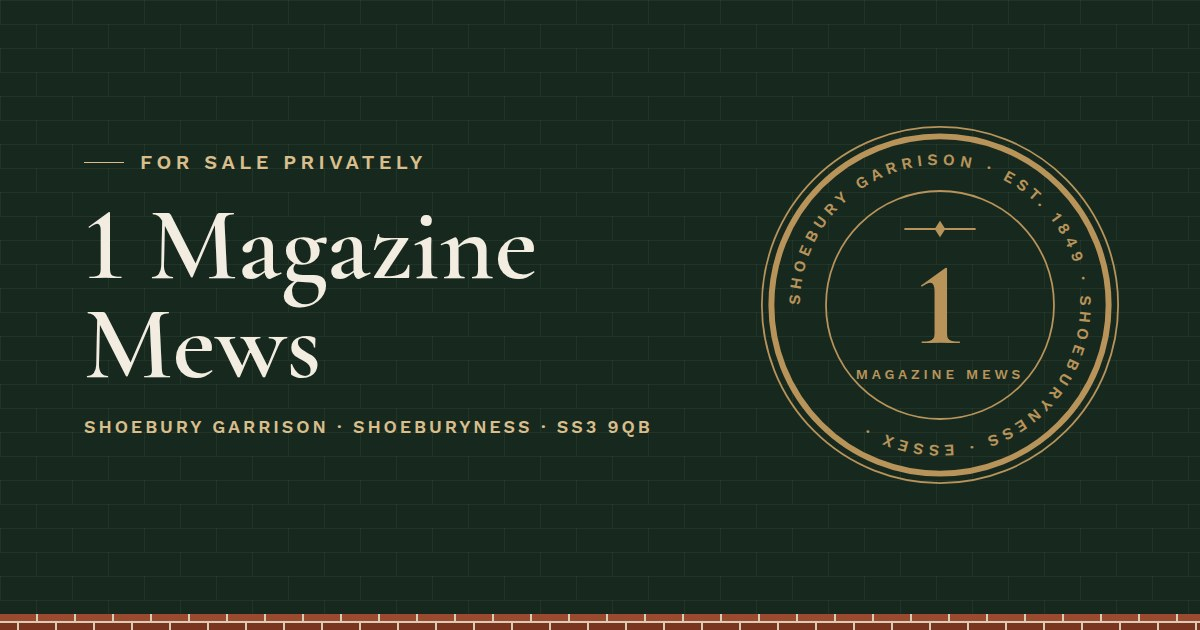
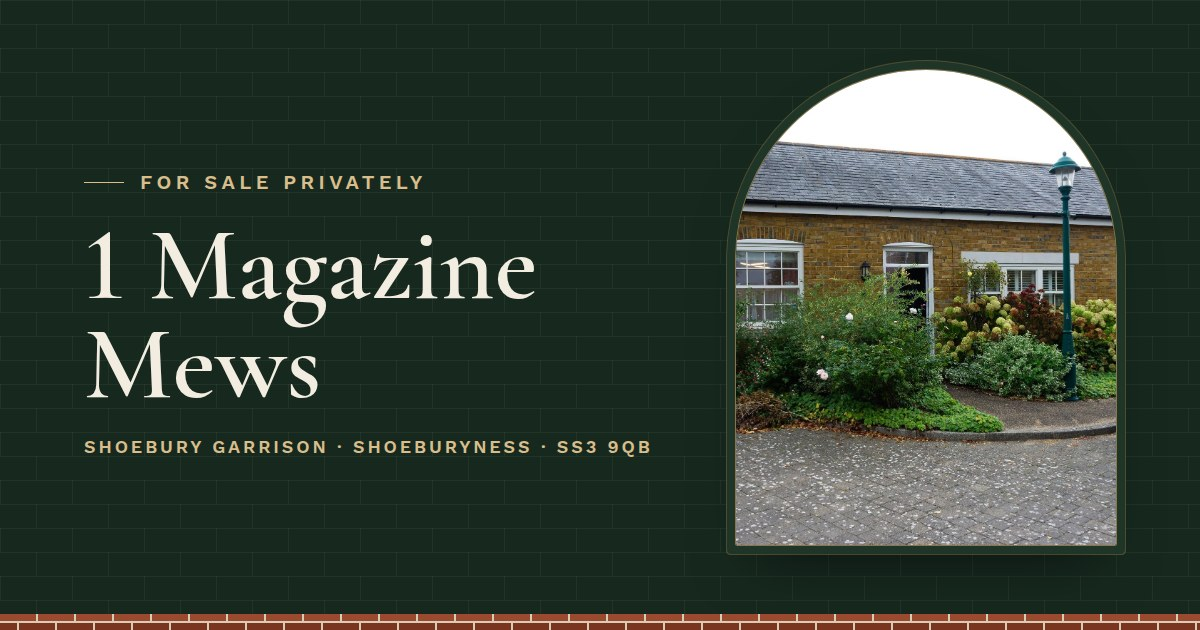
Add Rory's photos to 1 Magazine Mews
22 photos from the web-sized set in Drive, picked for the grid and
gallery. The front of the house is the hero, cropped to leave out a
neighbour's car. Number plates in the mews shot are blurred. The share
image now shows the house instead of only the crest.

The template gets an optional heroFocus setting, so the arched frame
can keep the right part of a landscape photo in view.

Claude-Session: https://claude.ai/code/session_01HPVg48CG5mJcPbNp1bycM4

diff --git a/magazine-mews/content.js b/magazine-mews/content.js
@@ -71,7 +71,10 @@ window.HOUSE = {
 
   // The big photo at the top. Leave "" and the top of the page
   // shows the Garrison crest instead. Landscape or portrait both work.
-  heroPhoto: "",           // e.g. "photos/front.jpg"
+  heroPhoto: "photos/hero-front.jpg",
+  // The frame is taller than a landscape photo, so the sides get cropped.
+  // "92% 50%" keeps the front door and the lamp post in view.
+  heroFocus: "92% 50%",
 
   // The round crest shown until there's a hero photo. The number and
   // street name come from the address.
@@ -139,8 +142,29 @@ window.HOUSE = {
      longest side and under 1MB each keeps the site fast.   */
 
   photos: [
-    // { src: "photos/01-front.jpg",   alt: "Front of the house", caption: "" },
-    // { src: "photos/02-living.jpg",  alt: "Living room",        caption: "Living room" },
+    // The first five make the grid; the rest open in the gallery.
+    { src: "photos/01-garden.jpg",               alt: "The back of the house, with the folding doors open onto the decking", caption: "Garden" },
+    { src: "photos/02-living-room.jpg",          alt: "Open-plan living room and kitchen, with folding doors onto the garden", caption: "Living room" },
+    { src: "photos/03-kitchen.jpg",              alt: "Pink fitted kitchen with grey worktops and a built-in oven", caption: "Kitchen" },
+    { src: "photos/04-bedroom.jpg",              alt: "Bedroom with a bird and flower mural wall", caption: "Bedroom" },
+    { src: "photos/05-garden-studio.jpg",        alt: "Timber garden studio on decking, next to the house", caption: "Garden studio" },
+    { src: "photos/06-front.jpg",                alt: "Front of the house on the mews, with the planted front garden and lamp post", caption: "Front of the house" },
+    { src: "photos/07-front-door.jpg",           alt: "Front door and front garden", caption: "Front of the house" },
+    { src: "photos/08-the-mews.jpg",             alt: "The mews courtyard and neighbouring Garrison houses", caption: "The mews" },
+    { src: "photos/09-living-room-windows.jpg",  alt: "Living room, looking towards the sash windows", caption: "Living room" },
+    { src: "photos/10-guest-bedroom.jpg",        alt: "Guest bedroom with mirrored wardrobes and a door to the guest toilet", caption: "Guest bedroom" },
+    { src: "photos/11-guest-toilet.jpg",         alt: "Guest toilet with an illuminated mirror and a gold basin", caption: "Guest toilet" },
+    { src: "photos/12-guest-toilet-detail.jpg",  alt: "Marble-effect shelf and patterned tiles in the guest toilet", caption: "Guest toilet" },
+    { src: "photos/13-garden-lawn.jpg",          alt: "Garden lawn with planted borders and brick walls", caption: "Garden" },
+    { src: "photos/14-garden-studio-doors.jpg",  alt: "Garden studio with its doors open onto the decking", caption: "Garden studio" },
+    { src: "photos/15-garden-studio-inside.jpg", alt: "Inside the garden studio, with a door out to the garden", caption: "Garden studio" },
+    { src: "photos/16-garage-studio.jpg",        alt: "Garage studio with French doors and a climbing creeper", caption: "Garage studio" },
+    { src: "photos/17-garage-studio-shower.jpg", alt: "Shower room in the garage studio, with palm-print walls", caption: "Garage studio shower room" },
+    { src: "photos/18-en-suite.jpg",             alt: "En suite with a walk-in shower and gold fittings", caption: "En suite" },
+    { src: "photos/19-en-suite-shower.jpg",      alt: "Walk-in shower with a gold rainfall shower head", caption: "En suite" },
+    { src: "photos/20-bedroom-mural.jpg",        alt: "The bird and flower mural in the bedroom", caption: "Bedroom" },
+    { src: "photos/21-back-garden-seating.jpg",  alt: "Seating area in the back garden", caption: "Back garden" },
+    { src: "photos/22-back-garden.jpg",          alt: "Back garden with a greenhouse and a garden shed", caption: "Back garden" },
   ],
 
   // Walkthrough video: upload to YouTube as "Unlisted" (or to Vimeo) and

diff --git a/famco/template/content.example.js b/famco/template/content.example.js
@@ -65,6 +65,10 @@ window.HOUSE = {
   // The big photo at the top. Leave "" and the top of the page
   // shows the crest instead. Landscape or portrait both work.
   heroPhoto: "",           // e.g. "photos/01-front.jpg"
+  // The frame is taller than a landscape photo, so the sides get cropped.
+  // Set this to keep a different part in view: "50% 50%" is the middle,
+  // "70% 50%" shifts it towards the right of the photo.
+  heroFocus: "",
 
   // The round crest shown until there's a hero photo, and the small
   // badge in the header. Leave any of these "" to work it out from

diff --git a/famco/template/site.js b/famco/template/site.js
@@ -95,6 +95,7 @@
       if (!ok) return;
       var img = $("hero-photo");
       img.src = H.heroPhoto;
+      if (has(H.heroFocus)) img.style.objectPosition = H.heroFocus;
       img.alt = A.line1 || "";
       img.hidden = false;
       $("hero-crest").hidden = true;

diff --git a/magazine-mews/site.js b/magazine-mews/site.js
@@ -96,6 +96,7 @@
       if (!ok) return;
       var img = $("hero-photo");
       img.src = H.heroPhoto;
+      if (has(H.heroFocus)) img.style.objectPosition = H.heroFocus;
       img.alt = A.line1 || "";
       img.hidden = false;
       $("hero-crest").hidden = true;

diff --git a/famco/template/photos-README.md b/famco/template/photos-README.md
@@ -10,3 +10,5 @@
 
 `heroPhoto` in content.js is the big photo at the top of the page. It can be
 one of these photos too.
+The arched frame crops the sides of a landscape photo; if it cuts off the
+bit you want, set `heroFocus` (e.g. `"70% 50%"` shifts it right).
